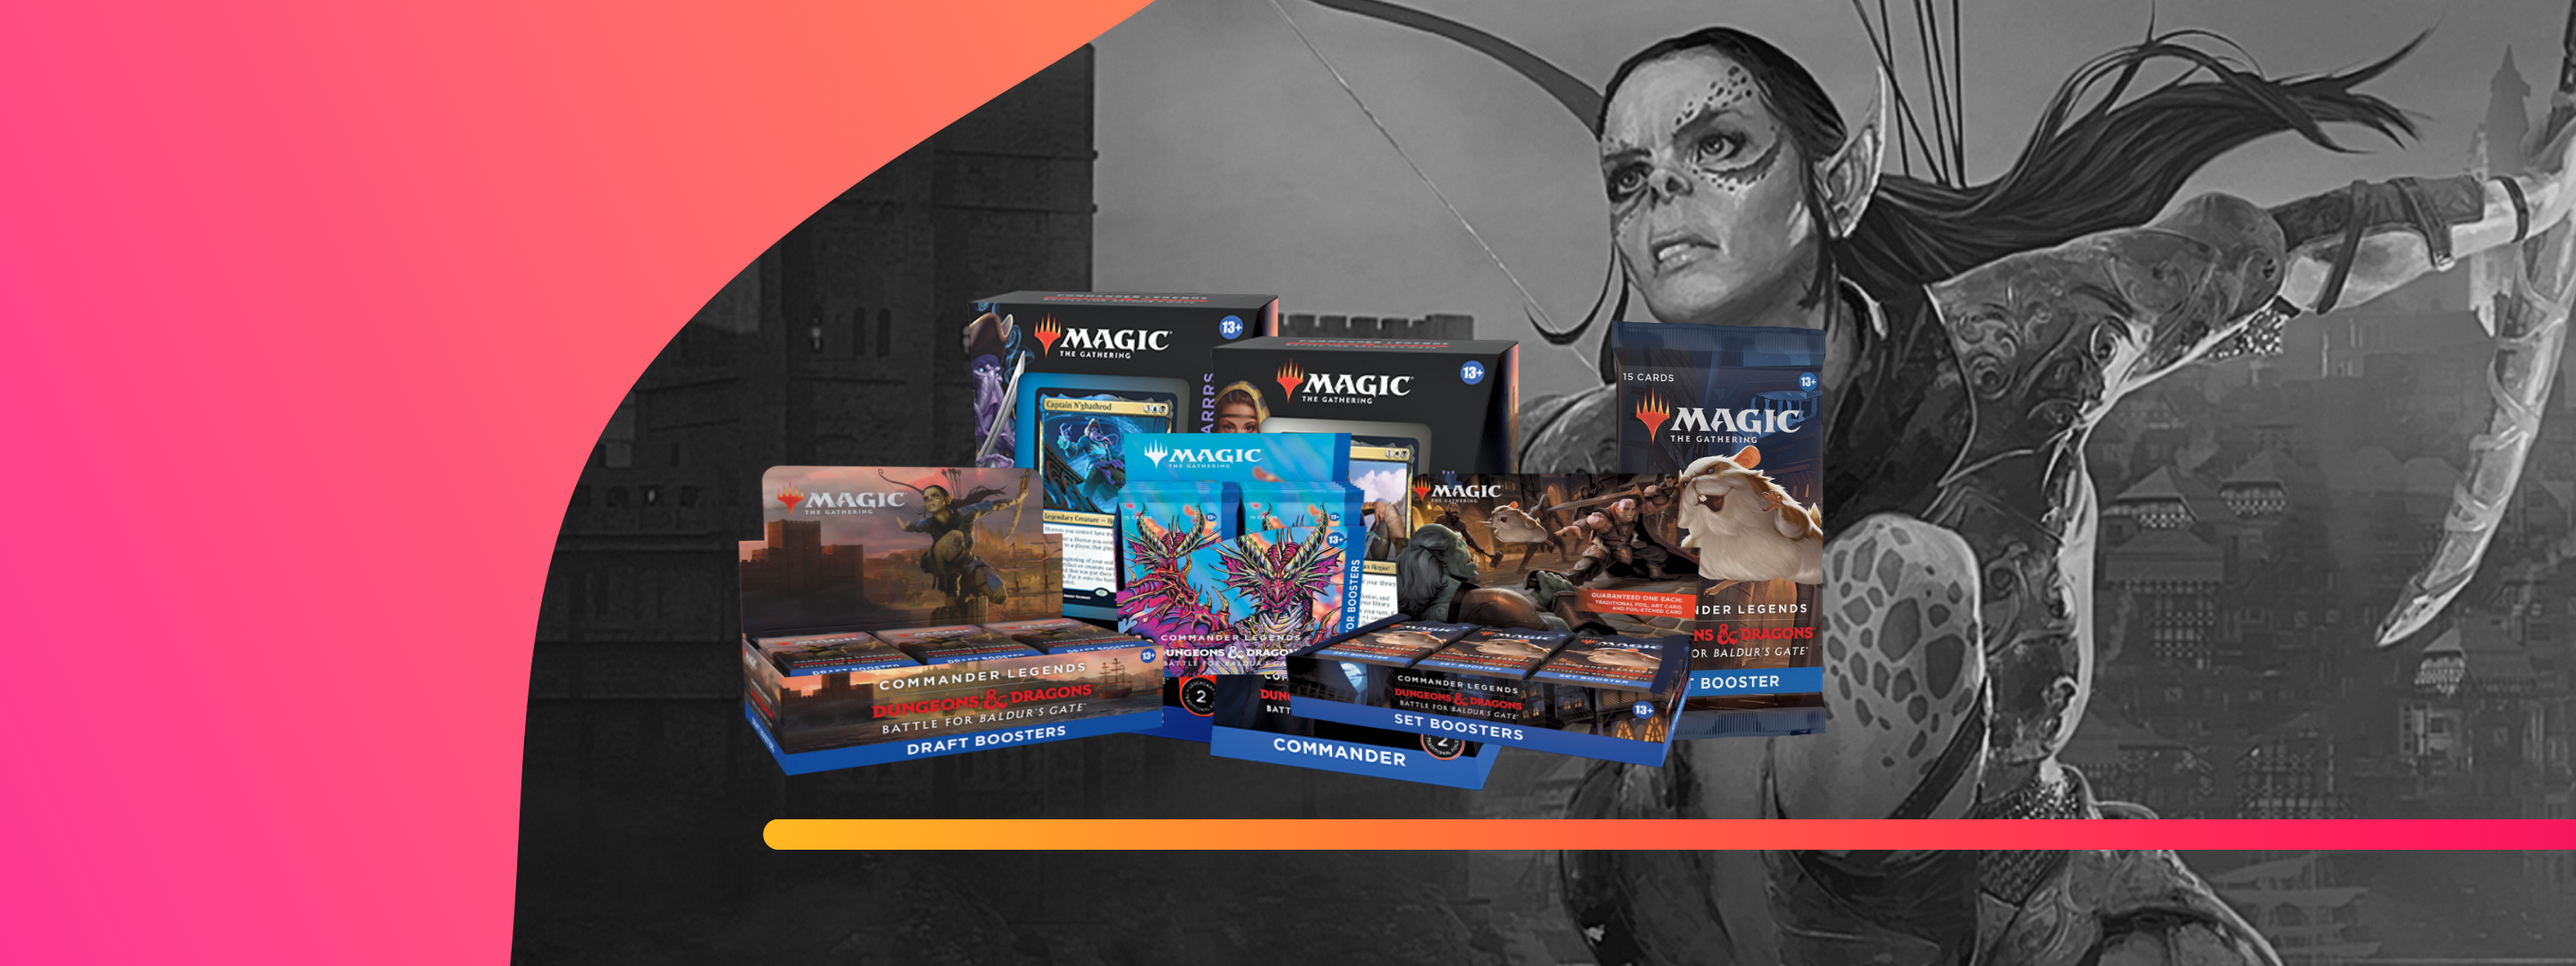
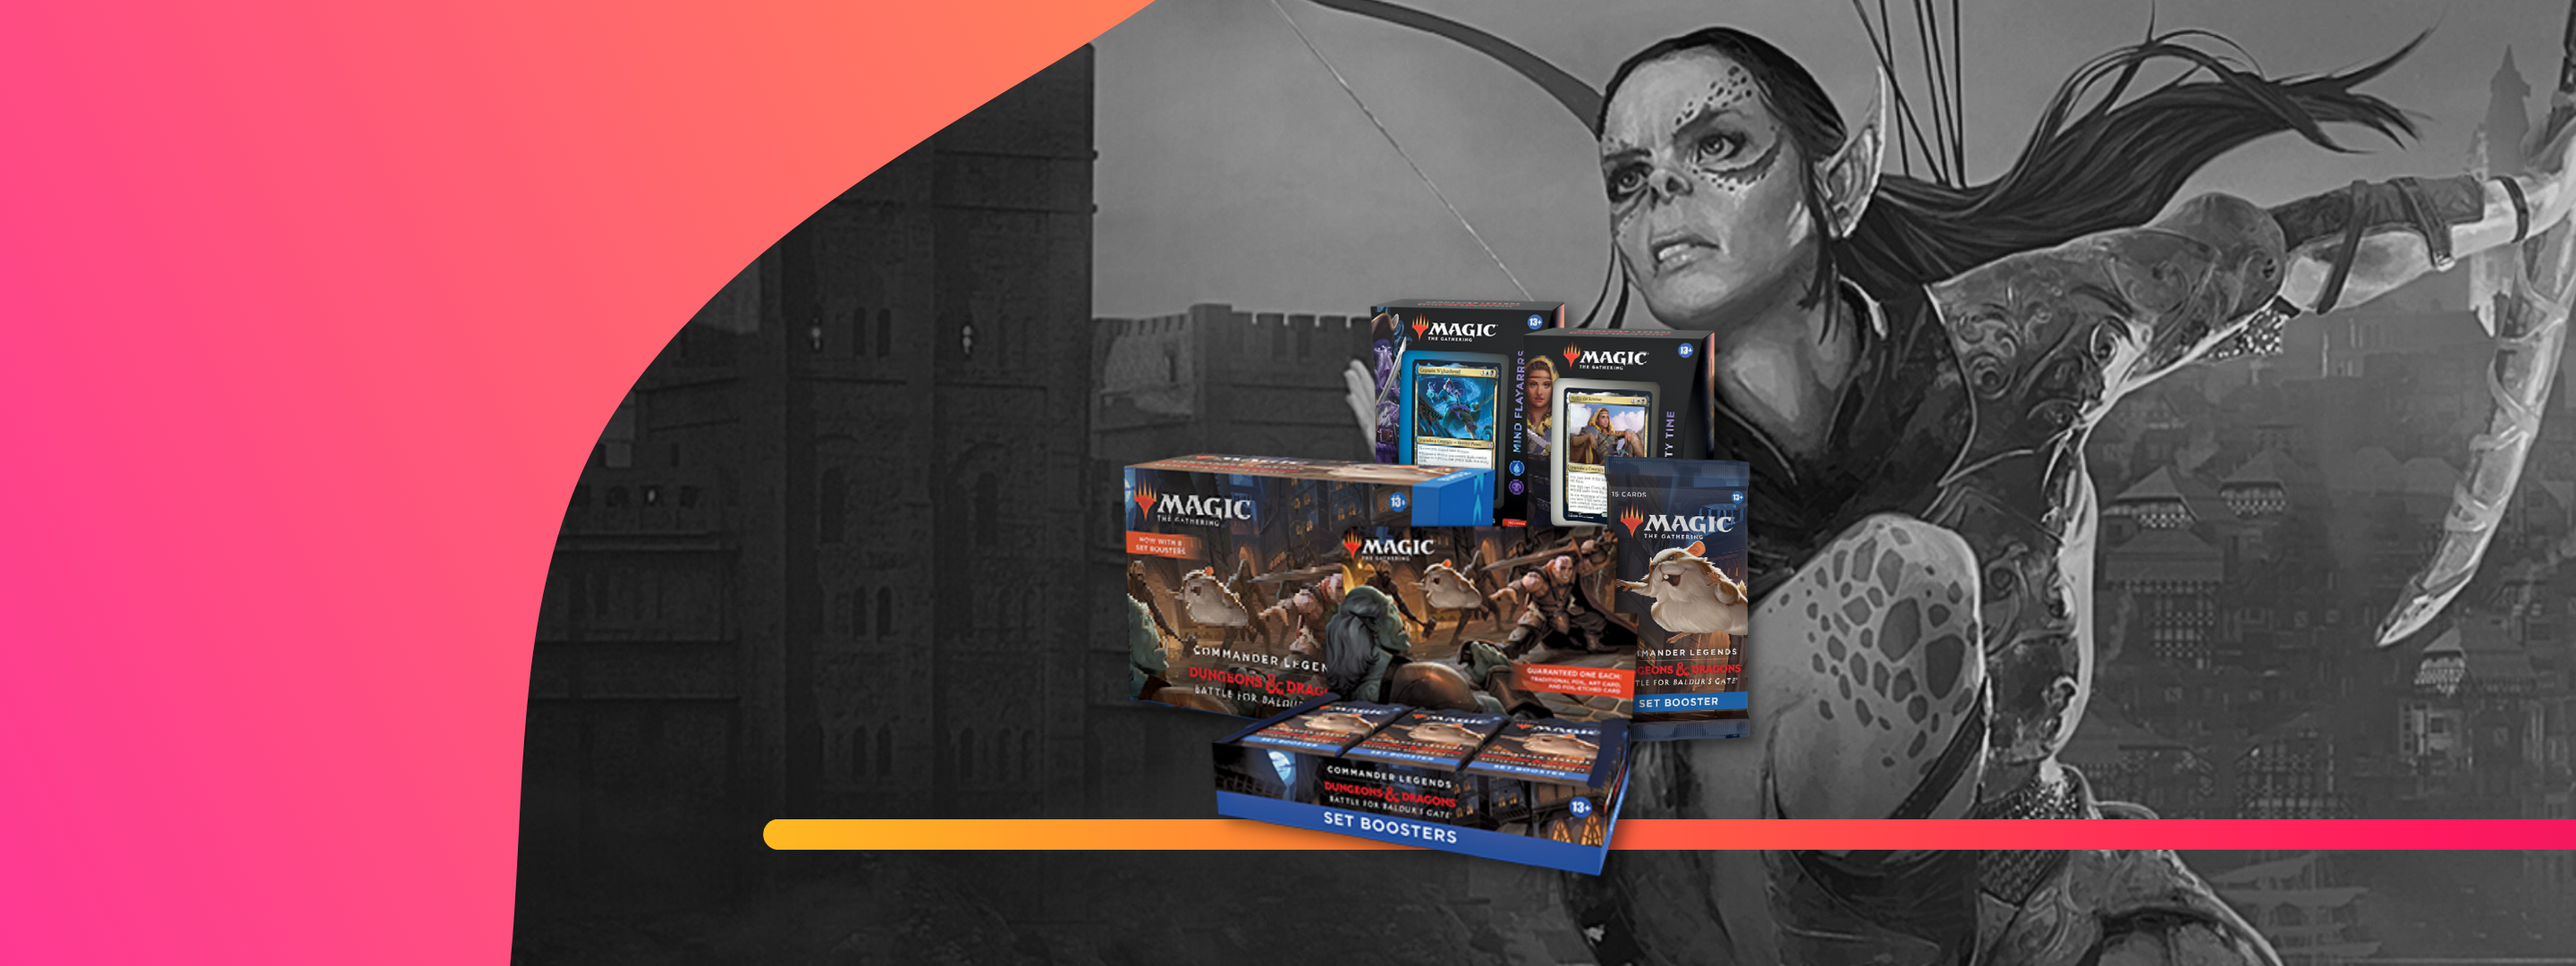
homepage

Changed region(s): [[0.2812, 0.3056, 0.7188, 0.9167]]

diff --git a/style.css b/style.css
@@ -49,7 +49,7 @@ body {
     display: flex;
     align-items: center;
     justify-content: space-between;
-    padding: 20px 80px;
+    padding: 4px 80px;
     background: #e3e6f3;
     box-shadow: 0 5px 15px rgba(0, 0, 0, 0.06);
     z-index: 999;
@@ -96,7 +96,7 @@ body {
 
 #hero{
     background-image: url("img/hero.png");
-    height: 70vh;
+    height: 90vh;
     width: 100%;
     background-size: cover;
     background-position: top 25% right 0;
@@ -136,5 +136,40 @@ body {
     background-size: 110%;
     cursor: pointer;
     font-weight: 700;
-    font-size: 15px;
+    font-size: 16px;
+}
+#feature {
+    display: flex;
+    align-items: center;
+    justify-content: space-between;
+    flex-wrap: wrap;
+}
+
+#feature .fe-box{
+    width: 180px;
+    text-align: center;
+    padding: 25px 15px;
+    box-shadow: 20px 20px 34px rgba(0, 0, 0, 0.03);
+    border: 1px solid white;
+    border-radius: 38px;
+    margin: 15px 0;
+}
+
+#feature .fe-box:hover{
+    box-shadow: 10px 10px 54px rgba(221, 68, 208, 0.1);
+}
+
+#feature .fe-box img{
+    width: 100%;
+    margin-bottom: 10px;
+}
+
+#feature .fe-box h6{
+    display: inline-block;
+    padding: 9px 8px 6px 8px;
+    line-height: 1;
+    border-radius: 4px;
+    color: white;
+    background-color:rgb(247, 166, 15) ;
+    font-size: 16px
 }

diff --git a/index.html b/index.html
@@ -37,6 +37,25 @@
 
     </section>
 
+    <section id="feature" class="section-p1">
+        <div class="fe-box">
+            <img src="img/features/parcelamento.png" alt="">
+            <h6>Pague em até 12x</h6>
+        </div>
+        <div class="fe-box">
+            <img src="img/features/frete.png" alt="">
+            <h6>Envio rápido</h6>
+        </div>
+        <div class="fe-box">
+            <img src="img/features/atendimento.png" alt="">
+            <h6>Atendimento personalizado</h6>
+        </div>
+        <div class="fe-box">
+            <img src="img/features/produtos.png" alt="">
+            <h6>Linha completa de produtos</h6>
+        </div>
+    </section>
+
     <script src="script.js"></script>
 </body>
 </html>
